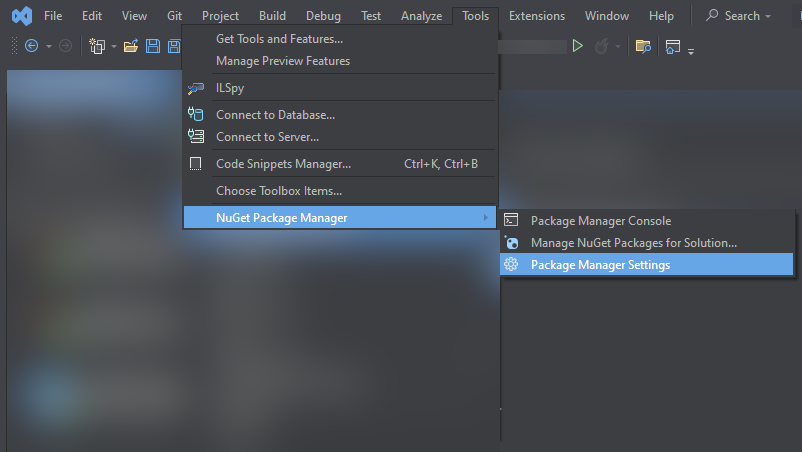
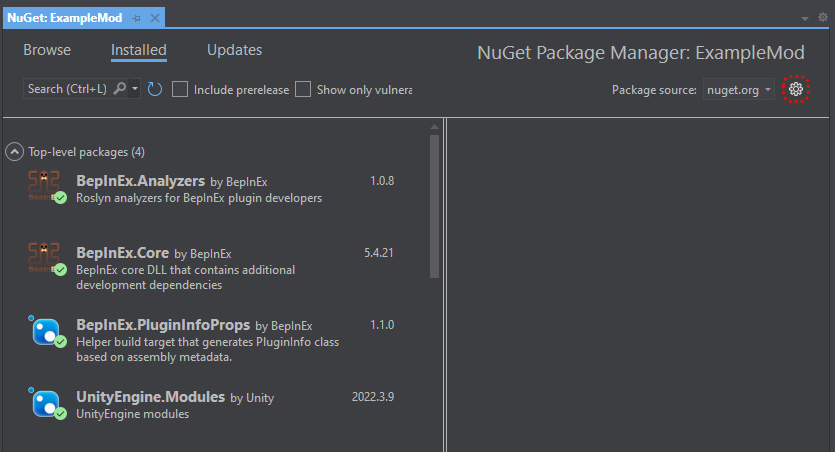
Updated VS NuGet instructions

diff --git a/docs/modding/starting-a-mod.md b/docs/modding/starting-a-mod.md
@@ -61,18 +61,26 @@ url: https://nuget.bepinex.dev/v3/index.json
 ```
 
 ::: details Visual Studio
-For Visual Studio, you can do this by going to the Package Manager Settings window, going to its `Sources` tab, and then clicking on the green "+" icon in the top right. There, add a new entry using the above configuration. See [Visual Studios's docs](https://learn.microsoft.com/en-us/nuget/consume-packages/install-use-packages-visual-studio#package-sources) for more info.
+For Visual Studio, you can do this by going to the NuGet Package Manager window and clicking on the settings/gear icon.
+
+![View NuGet Packages in Visual Studio](/images/starting-a-mod/visualstudioviewnugetpackages.png)
 
 ![Show NuGet Project Settings in Visual Studio](/images/starting-a-mod/visualstudioshownugetsettings.png)
 
+This will bring up an options modal; click on the `Package Sources` tab, and then click on the green "+" icon in the top right. From there, you can add a new entry using the above configuration.
+
 ![Visual Studio NuGet Sources config with BepInEx added](/images/starting-a-mod/visualstudionugetsources.png)
+
+See [Visual Studios's docs](https://learn.microsoft.com/en-us/nuget/consume-packages/install-use-packages-visual-studio#package-sources) for more info.
 :::
 ::: details Rider
-For Rider, you can do this by going to the NuGet window, going to its `Sources` tab, and then clicking on the green "+" icon in the `Feeds` sub-tab. There, add a new entry using the above configuration. See [Rider's docs](https://www.jetbrains.com/help/rider/Using_NuGet.html#sources) for more info.
+For Rider, you can do this by going to the NuGet window, going to its `Sources` tab, and then clicking on the green "+" icon in the `Feeds` sub-tab. There, add a new entry using the above configuration.
 
 ![Show NuGet Sources tab in Rider](/images/starting-a-mod/ridershownugetsources.png)
 
 ![Rider NuGet Sources config with BepInEx added](/images/starting-a-mod/ridernugetfeeds.png)
+
+See [Rider's docs](https://www.jetbrains.com/help/rider/Using_NuGet.html#sources) for more info.
 :::
 ::: details VS Code
 For VS Code, there is no built in method for NuGet Packages. The only way to add the BepInEx NuGet source is by modifying the `NuGet.Config` file in your project directory. Add the following code in the `<packageSources>` section:
